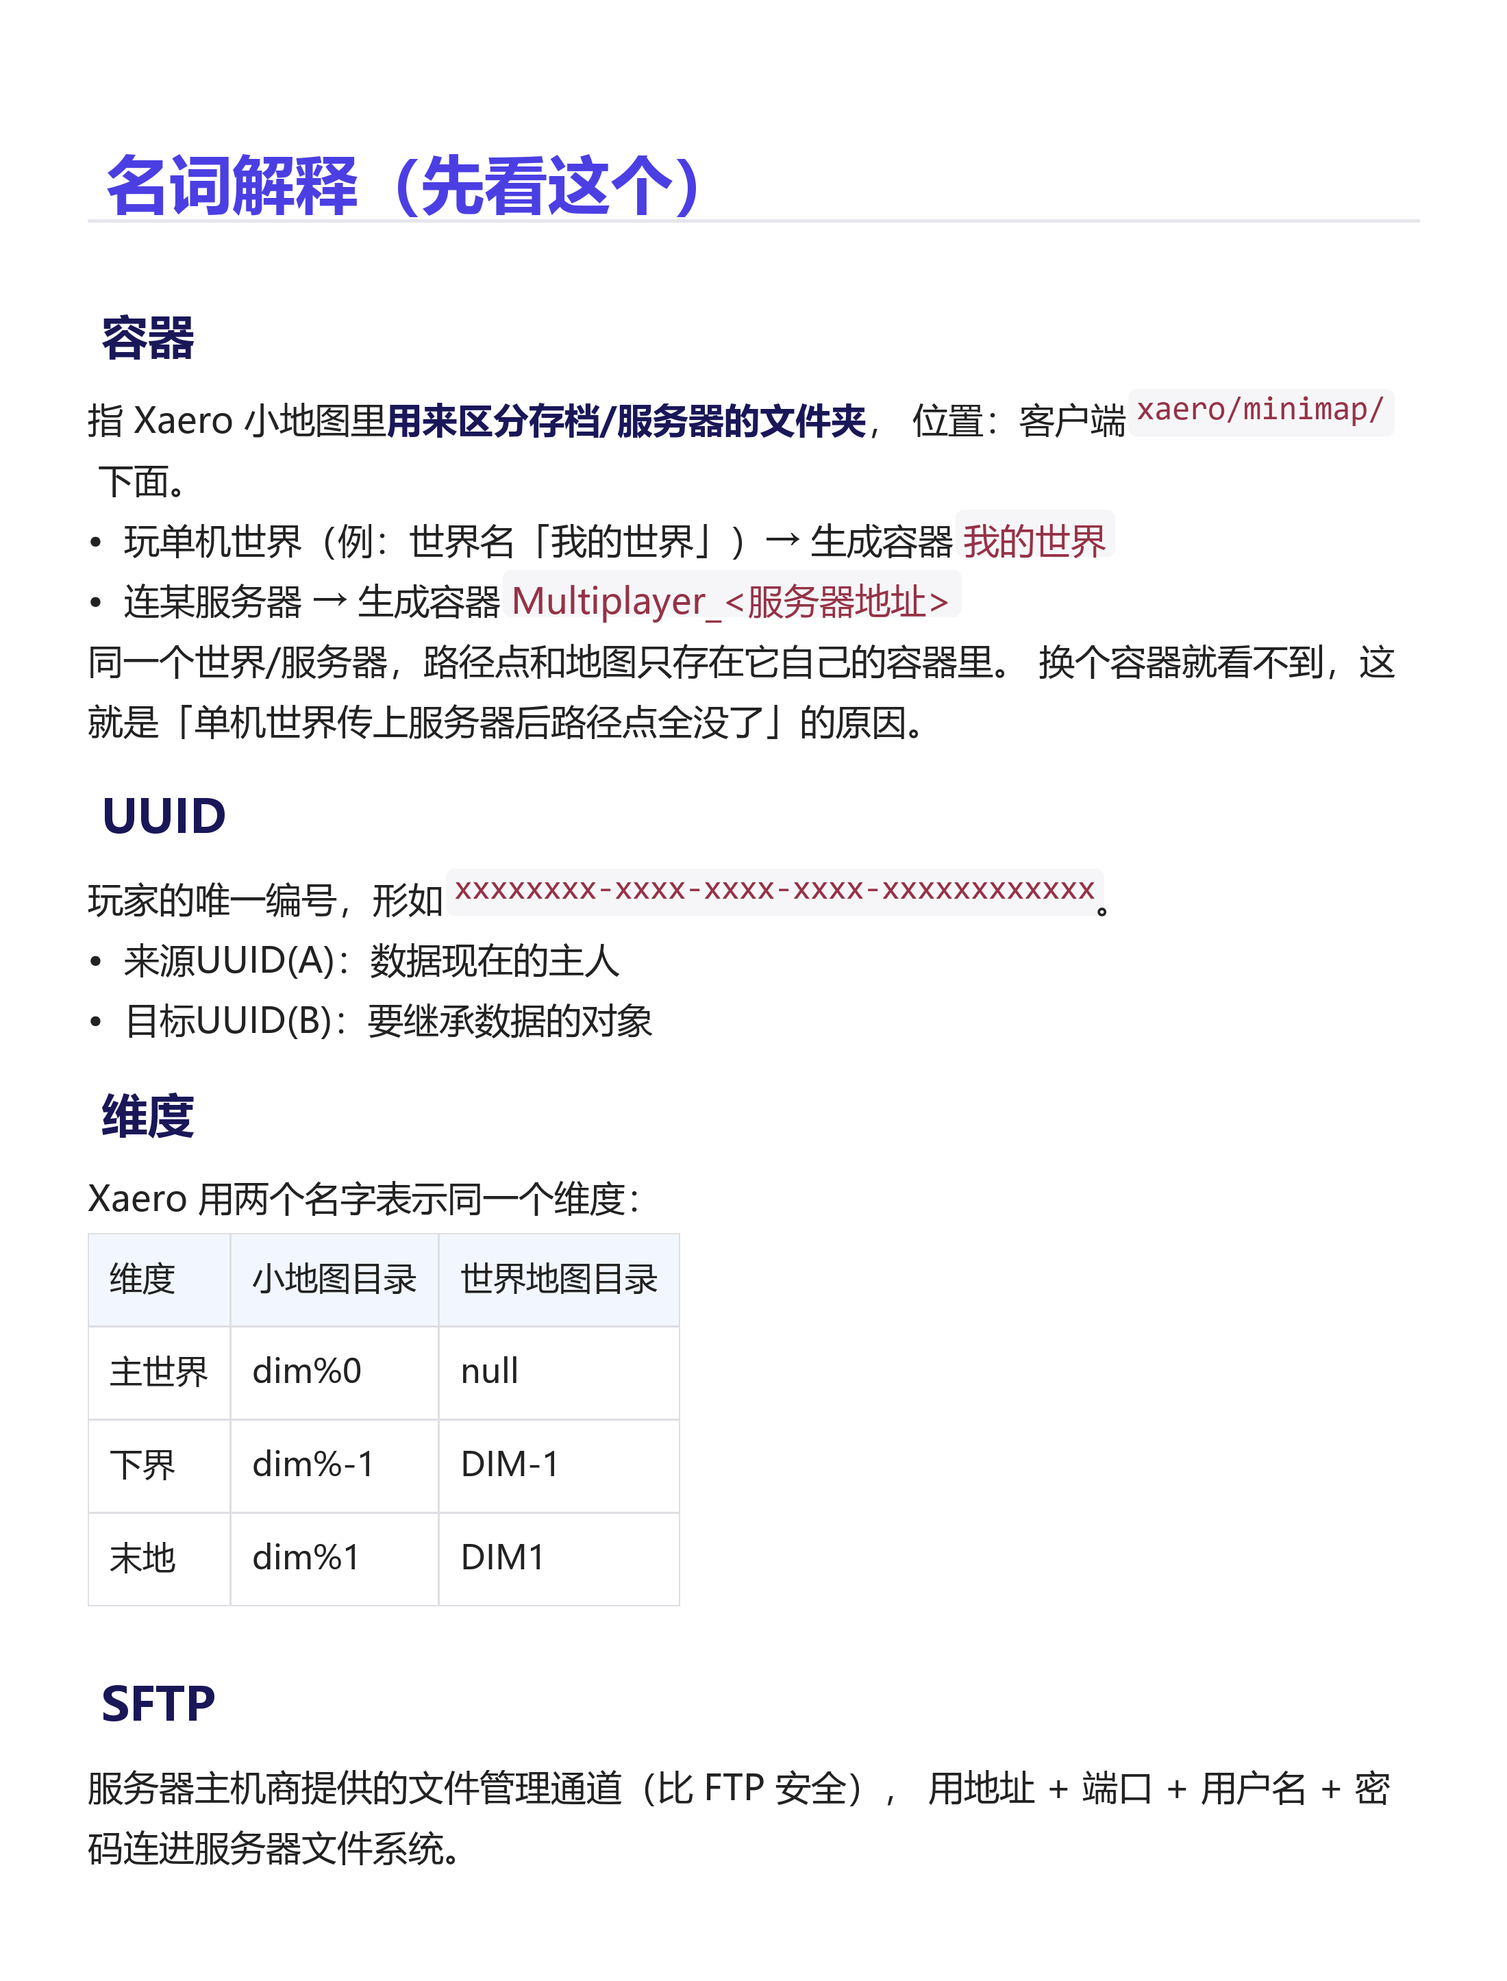
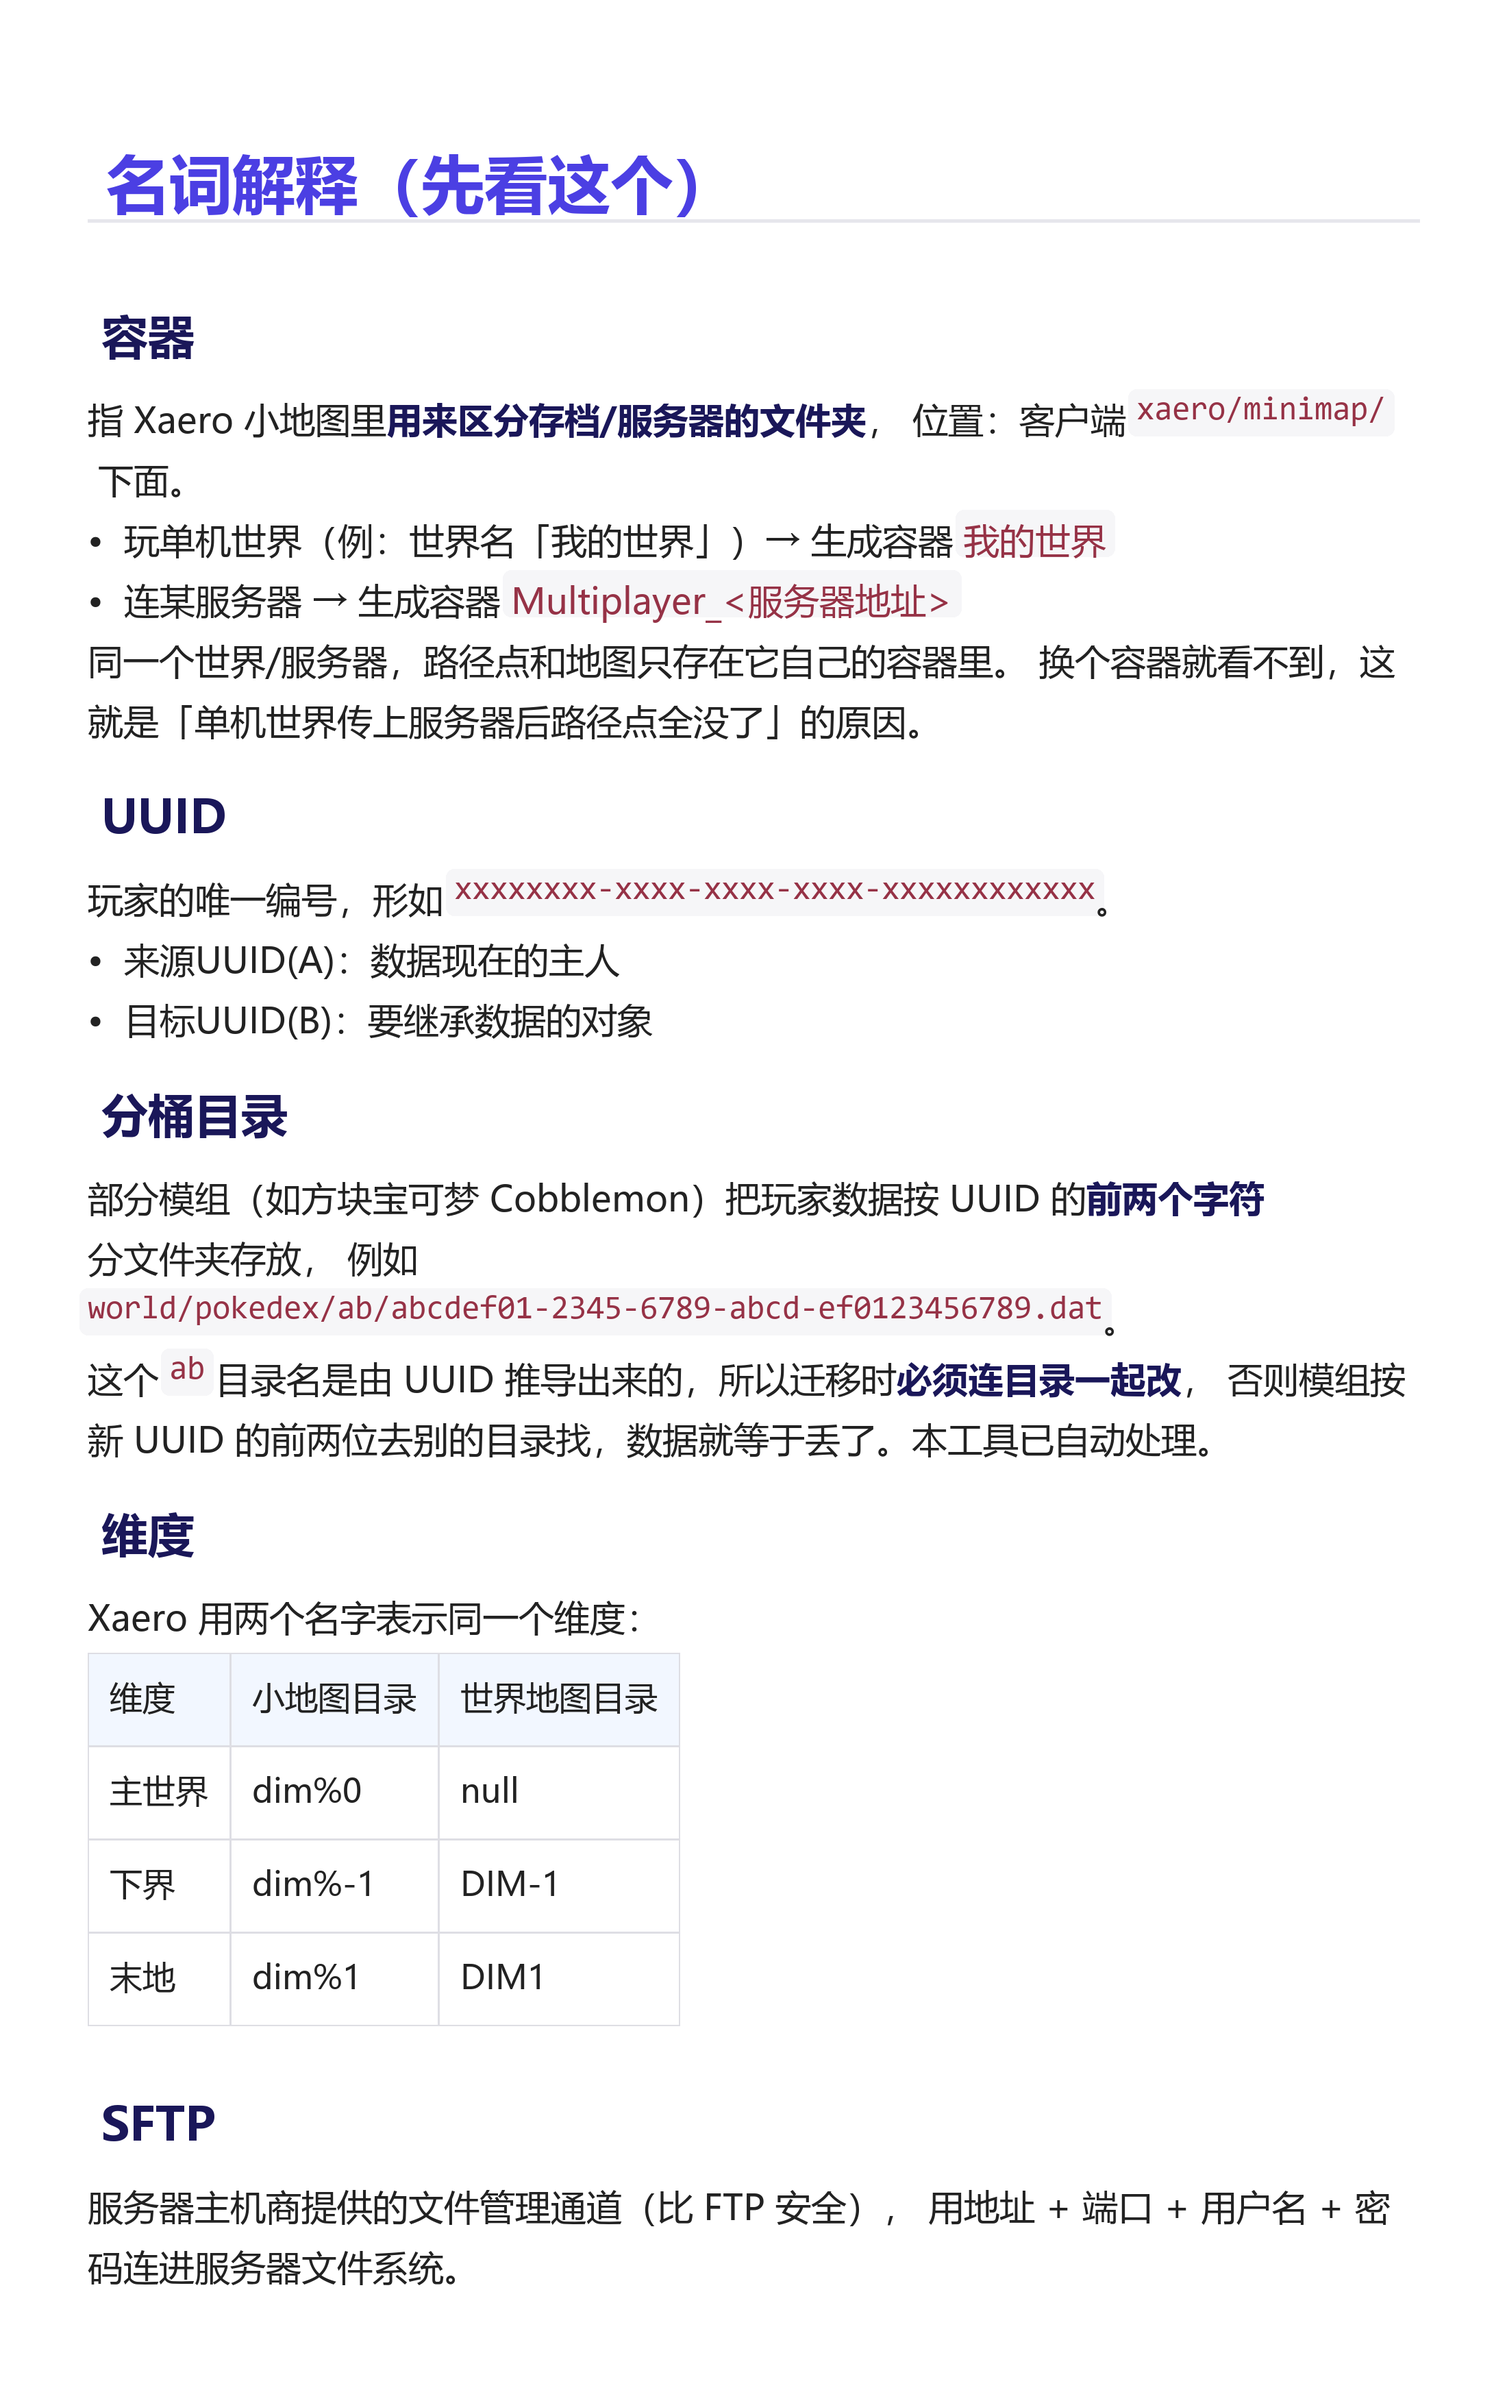
fix: 兼容方块宝可梦（Cobblemon）等按 UUID 前两位分桶存储的模组
部分模组把玩家数据存成 [世界]/[数据目录]/[uuid 前 2 位]/[uuid].[ext]，分桶目录名
由 UUID 推导。旧版只改文件名未搬目录，导致模组按新 UUID 找不到旧数据，表现为
宝可梦 / 图鉴 / PC 盒子 / 队伍全部变空。

- 新增 uuid_path_target()：改名时同步搬迁 UUID 前两位分桶目录，并自动建目录
- 改名改为自深到浅处理，避免父目录先改名导致子项路径失效
- 教程补充「分桶目录」名词解释与 Cobblemon 数据位置说明，并重新渲染长图

diff --git a/uuid_transfer_tool.py b/uuid_transfer_tool.py
@@ -357,6 +357,23 @@ def uuid_pairs(uuid_a, uuid_b):
     return out
 
 
+def uuid_path_target(path, uuid_a, uuid_b):
+    """计算 UUID 数据文件的迁移目标路径（文件名 + UUID 前两位分桶目录）。
+
+    方块宝可梦（Cobblemon）等模组按 "<根>/<数据目录>/<uuid 前 2 位>/<uuid>.<ext>" 存放玩家数据，
+    分桶目录名由 UUID 前两位派生，因此迁移时必须连目录一起搬到新 UUID 的前两位，否则模组按新 UUID
+    找不到旧数据（表现为宝可梦、图鉴、PC 盒子全部丢失）。
+    返回新路径；若无变化返回 None。"""
+    new = ci_replace(path, uuid_a, uuid_b)
+    parent, name = os.path.split(new)
+    grand, bucket = os.path.split(parent)
+    if len(bucket) == 2 and bucket.lower() == uuid_a.lower()[:2] and uuid_b.lower() in name.lower():
+        new = os.path.join(grand, uuid_b.lower()[:2], name)
+    if os.path.normcase(new) == os.path.normcase(path):
+        return None
+    return new
+
+
 def edit_bytes(data, pairs):
     """把字节内容中出现的各 pat 原位替换（等长）。返回 (新数据, 是否改动)"""
     changed = False
@@ -924,8 +941,8 @@ def transfer(root, uuid_a, uuid_b, report=None, progress=None, cancel=None,
     )
     targets = set(name_hits) | {p for p, _ in content_hits}
     for p in name_hits:                      # 改名目标已存在的 B 旧数据一并备份
-        newp = ci_replace(p, uuid_a, uuid_b)
-        if os.path.exists(newp):
+        newp = uuid_path_target(p, uuid_a, uuid_b)
+        if newp and os.path.exists(newp):
             targets.add(newp)
     os.makedirs(backup_dir, exist_ok=True)
     for p in sorted(targets):
@@ -966,9 +983,15 @@ def transfer(root, uuid_a, uuid_b, report=None, progress=None, cancel=None,
                 report(f"[{tag}] {p}")
 
     # 3) 文件名/目录名替换（目标同名文件已备份，直接覆盖）
-    for p in name_hits:
-        newp = ci_replace(p, uuid_a, uuid_b)
+    #    自深到浅处理：先搬内层文件，再改外层目录，避免父目录先改名导致子项路径失效
+    for p in sorted(name_hits, key=lambda x: x.count(os.sep), reverse=True):
+        newp = uuid_path_target(p, uuid_a, uuid_b)
+        if not newp:
+            continue
         try:
+            d = os.path.dirname(newp)
+            if d:
+                os.makedirs(d, exist_ok=True)   # UUID 前两位分桶目录（Cobblemon 等）需要新建
             os.replace(p, newp)
             if on_renamed:
                 on_renamed(p, newp)

diff --git a/RELEASE_NOTES_v1.1.0.md b/RELEASE_NOTES_v1.1.0.md
@@ -1,0 +1,73 @@
+# v1.1.0 — 修复方块宝可梦（Cobblemon）等分桶存储模组的迁移
+
+> 本次更新解决了「迁移后方块宝可梦的宝可梦 / 图鉴 / PC 盒子 / 队伍全部变空」的问题。
+
+## 下载
+
+| 文件                                | 大小       | SHA256                                                             |
+| --------------------------------- | -------- | ------------------------------------------------------------------ |
[1 lines of base64/hex data omitted]
+
+> 该附件即构建产物 `UUID玩家数据迁移.exe`，因 GitHub 会清洗非 ASCII 附件名而改用英文名，二者为同一程序。
+
+- Windows 64 位，绿色**单文件**：无需安装 Java / Python，双击即用
+- 依赖（paramiko / cryptography / bcrypt / tkinter）、程序图标与 10 篇图形教程均已打包进 exe
+
+## 本版重点：兼容「UUID 前两位分桶」目录
+
+部分模组把玩家数据按 UUID 的**前两个字符**分成子目录存放，例如方块宝可梦（Cobblemon）：
+
+```
+world/pokemon/pcstore/ab/abcdef01-2345-6789-abcd-ef0123456789.dat
+                    ↑ 分桶目录，由 UUID 前两位推导
+```
+
+模组启动时会按「当前 UUID 的前两位」去定位文件。旧版工具只改文件名、没有搬动分桶目录，
+于是新 UUID 去新前缀目录下找不到旧数据，表现为：
+
+- 宝可梦（PC 盒子 / 队伍）全部消失
+- 图鉴、招式学习器记录清零
+- 玩家通用数据（初始宝可梦、关键道具等）重置
+
+v1.1.0 起，工具会自动识别「分桶目录 + UUID 文件名」的组合并**连目录一起迁移**，
+无需任何额外设置。已覆盖的 Cobblemon 数据位置：
+
+| 数据 | 路径 |
+|---|---|
+| 玩家通用数据 | `<世界>/cobblemonplayerdata/` |
+| 图鉴 | `<世界>/pokedex/` |
+| 招式学习器 | `<世界>/tm_moves/` |
+| PC 盒子 | `<世界>/pokemon/pcstore/` |
+| 队伍 | `<世界>/pokemon/playerpartystore/` |
+
+宝可梦自身的「初训家（originalTrainer）」UUID、以及世界里已放出的宝可梦实体，
+由原有的内容替换（含 gzip NBT、`.mca` 区块）一并处理。
+
+## 其他改进
+
+- 改名改为**自深到浅**处理：先搬内层文件、再改外层目录，避免父目录先改名导致子项路径失效
+- 新增分桶目录（如 `ab/`）的自动创建，跨前缀迁移不再报错
+- 教程新增「分桶目录」名词解释与「特殊结构：UUID 前两位的分桶目录」章节，并重新渲染全部长图
+
+## 兼容性说明
+
+- 通用逻辑不变：文件名 / 目录名改名 + 内容原位替换（文本、二进制、gzip NBT、`.mca` 区块）
+- 覆盖 UUID 的 4 种写法（大小写 × 带横线/无横线）与 16 字节二进制形式
+- 不依赖固定路径与版本号，适用于所有以 UUID 作玩家标识的版本
+
+## 使用提示
+
+1. 迁移服务器世界前**先停服**；使用 Xaero 转移前**先退出游戏**
+2. 建议先点「扫描 / 扫描预览」确认命中范围（使用分桶存储的模组会同时列出分桶目录的搬迁），再执行迁移
+3. 任何一步出问题都可用自动生成的备份目录还原
+
+## 已知限制
+
+- 若模组以 NBT 的 `UUIDMost / UUIDLeast` 双 long（而非字符串或 16 字节数组）形式存 UUID，字节级替换无法命中；但玩家本体数据（背包 / 位置 / 成就 / 模组按 UUID 命名的存档）依靠文件与目录改名继承，不受影响
+- 多人模式的 SFTP 需主机面板开放该通道
+
+## 致谢与声明
+
+- 作者：**CallMeACookieWYQ**，许可：[MIT](https://github.com/CookieWYQ/MC-UUID-Migrator/blob/main/LICENSE)
+- 本 Release **不含任何第三方模组文件**；提到的 Cobblemon、Xaero 等名称仅用于说明兼容性，版权归原作者所有
+- 请遵守所在服务器规则与相关法律法规使用本工具

diff --git a/使用教程/08_迁移会做什么与备份.md b/使用教程/08_迁移会做什么与备份.md
@@ -12,6 +12,34 @@
    - gzip 压缩的 NBT（playerdata / level.dat / 女仆备份）
    - .mca 区块（世界里归 A 的女仆等实体）
 
+## 特殊结构：UUID 前两位的「分桶目录」
+
+有些模组会把玩家数据按 UUID 的**前两个字符**分成子目录，例如：
+
+```
+world/pokemon/pcstore/ab/abcdef01-2345-6789-abcd-ef0123456789.dat
+                    ↑ 这一层就是分桶目录，由 UUID 前两位决定
+```
+
+这类模组（典型代表：方块宝可梦 Cobblemon）启动时会按**当前 UUID 的前两位**去找文件，
+所以只改文件名是不够的，**必须连分桶目录一起搬**，否则模组会在新前缀目录下找不到旧数据，
+表现为宝可梦、图鉴、PC 盒子、队伍全部变空。
+
+本工具会自动识别这种「分桶目录 + UUID 文件名」的组合并一并迁移，无需额外设置。
+
+方块宝可梦的常见数据位置（`<世界>` 指服务器或存档的世界文件夹）：
+
+| 数据 | 路径 |
+|---|---|
+| 玩家通用数据 | `<世界>/cobblemonplayerdata/` |
+| 图鉴 | `<世界>/pokedex/` |
+| 招式学习器 | `<世界>/tm_moves/` |
+| PC 盒子 | `<世界>/pokemon/pcstore/` |
+| 队伍 | `<世界>/pokemon/playerpartystore/` |
+
+宝可梦自身的「初训家（originalTrainer）」UUID、以及世界里已放出的宝可梦实体，
+都由内容替换一并处理。
+
 ## 备份在哪
 
 - UUID 迁移：`uuid_backup_时间戳_A_to_B`（备份所有涉及文件）

diff --git a/使用教程/02_名词解释.md b/使用教程/02_名词解释.md
@@ -18,6 +18,14 @@
 - 来源UUID(A)：数据现在的主人
 - 目标UUID(B)：要继承数据的对象
 
+## 分桶目录
+
+部分模组（如方块宝可梦 Cobblemon）把玩家数据按 UUID 的**前两个字符**分文件夹存放，
+例如 `world/pokedex/ab/abcdef01-2345-6789-abcd-ef0123456789.dat`。
+
+这个 `ab` 目录名是由 UUID 推导出来的，所以迁移时**必须连目录一起改**，
+否则模组按新 UUID 的前两位去别的目录找，数据就等于丢了。本工具已自动处理。
+
 ## 维度
 
 Xaero 用两个名字表示同一个维度：
